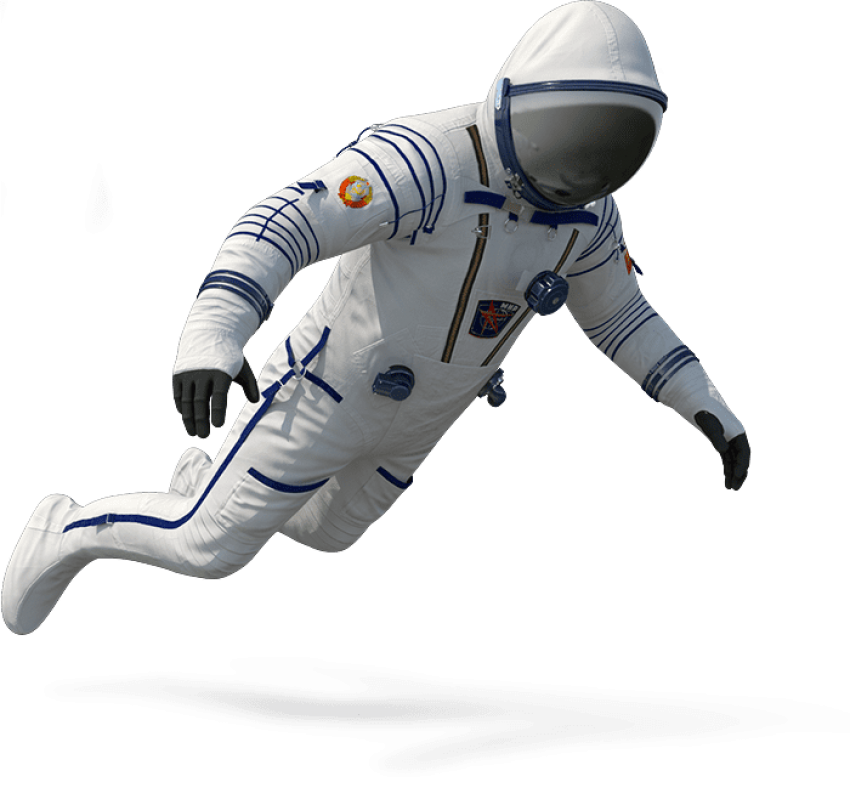
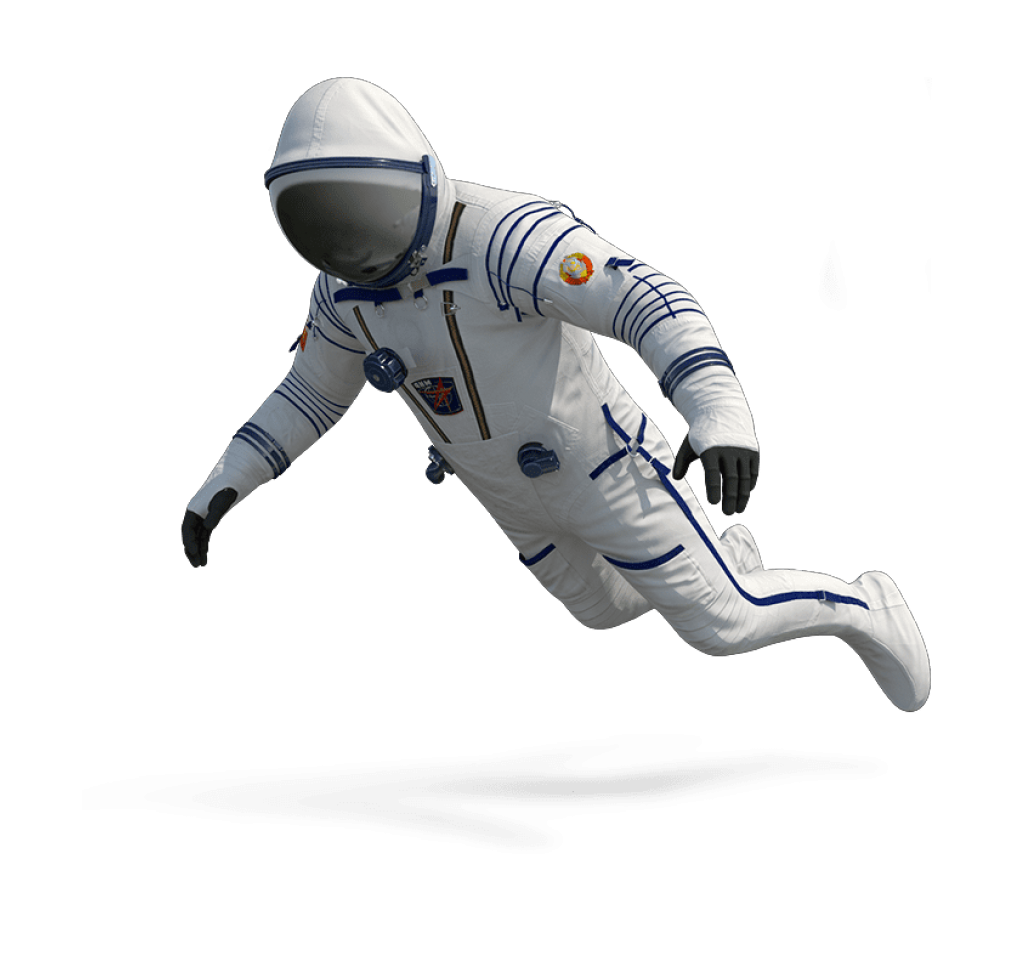
added link to cv

diff --git a/index.html b/index.html
@@ -85,213 +85,6 @@
             <li class="cockpit" data-depth="0.05"><div class="layer"></div></li>
           </ul>
       </div>
-
-
-
-<!-- ------------------------- -->
-
-<!-- <div class="third-card">
-<div class="solar-system">
-    <div class="ellipse-centered1">
-      <div id="ellipse1" class="ellipse">
-        <div id="orbit1">
-          <div id="planet1" class="planet" data-toggle="tooltip" data-placement="top" title="Tooltip on top">
-          </div>
-        </div>
-      </div>
-    </div>
-
-    <div class="ellipse-centered2">
-      <div id="ellipse2" class="ellipse">
-        <div id="orbit2">
-          <div id="planet2" class="planet">
-          </div>
-        </div>
-      </div>
-    </div>
-    <div class="ellipse-centered3">
-      <div id="ellipse3" class="ellipse">
-        <div id="orbit3">
-          <div id="planet3" class="planet">
-          </div>
-        </div>
-      </div>
-    </div>
-    <div class="ellipse-centered4">
-      <div id="ellipse4" class="ellipse">
-        <div id="orbit4">
-          <div id="planet4" class="planet">
-          </div>
-        </div>
-      </div>
-    </div>
-    <div class="ellipse-centered5">
-      <div id="ellipse5" class="ellipse">
-        <div id="orbit5">
-          <div id="planet5" class="planet">
-          </div>
-        </div>
-      </div>
-    </div>
-    <div class="ellipse-centered6">
-      <div id="ellipse6" class="ellipse">
-        <div id="orbit6">
-          <div id="planet6" class="planet">
-          </div>
-        </div>
-      </div>
-    </div>
-  </div>
-  </div> -->
-
-
-<!-- ---------------------------- -->
-
-
-    <!--   <div class="third-card">
-      <div class="animation-container">
-        <div class="planet-container">
-          <div class="planet">
-
-          </div>
-        </div>
-      </div>
-        <div class="planet-controller">
-        <i class="fa fa-arrow-left" aria-hidden="true" onClick="rotateLeft()"></i>
-        <i class="fa fa-arrow-right" aria-hidden="true" onClick="rotateRight()"></i>
-        </div>
-      </div> -->
-
-
-
-
-
-
-
-        <div id="cv-toggle" class="experiences">
-          <div class="cv">
-          <div class="experiences-list">
-            <h3>Experiences</h3>
-            <br>
-            <div class="exp-card">
-              <h4><span>Développeur web</span><span class="more_infos"><strong>+</strong></span></h4>
-              Indépendant <br>
-              <span>oct. 2018 – Aujourd’hui (4 mois) <br>
-              Paris, France</span> <br><br>
-              <div class="toggle-1">
-                🚧 En cours 🚧<br>
-                🚀Refonte du site De La Terre À l'Objet<br>
-                🎉 Livraison prévue pour fin Janvier 2019<br><br>
-
-                Techno utilisées :<br>
-                - Ruby on rails<br>
-                - postgreSQL<br>
-                - API (stripe, weezevent)<br>
-                - gem Ruby<br>
-                - Html/CSS<br>
-                - Javascript<br><br>
-
-                PROJET RÉALISÉ :<br>
-                <a href="https://pedalo.olvo.fr">❤ pedalo.olvo.fr</a> (projet @LeWagon)<br><br>
-              </div>
-            </div>
-            <div class="exp-card">
-              <h4><span>Pilote banc moteur (Groupe PSA)</span><span class="more_infos"><strong>+</strong></span></h4>
-              FEV France <br>
-               <span>Janv. 2018 – Juin 2018 (6 mois) <br>
-              Carrière sous poissy, France</span> <br><br>
-
-              <div class="toggle-2">
-                - Réalisation de gammes d'essai <br>
-                - Mise au point moteur <br>
-                - Calibration <br>
-                - Dépouillement de premier niveau <br>
-                - Maintenance des moyens d'essai <br><br>
-
-                Outils : PUMA, INCA , OSIRIS<br><br>
-              </div>
-            </div>
-
-            <div class="exp-card">
-              <h4><span>Gestionnaire de configuration</span><span class="more_infos"><strong>+</strong></span></h4>
-              SAFRAN Electronics & Defense <br>
-               <span>avril 2015 – Nov. 2016 (1 an et 8 mois) <br>
-              Paris, France</span> <br><br>
-
-              <div class="toggle-3">
-                - Suivi de la description fonctionnelle et physique des produits. <br>
-                - Edition et maintien de la Configuration Applicable des produits. <br>
-                - Suivi et enregistrement des Fiches de Faits Techniques et des demandes d'Evolution. <br>
-                - Interface avec les équipes de développement et de fabrication (Commission de gestion de configuration périodique). <br><br>
-              </div>
-            </div>
-
-            <div class="exp-card">
-              <h4><span>Stagiaire-ingenieur calcul A350-1000 XWB (CWB)</span><span class="more_infos"><strong>+</strong></span></h4>
-              AIRBUS OPERATION SAS <br>
-               <span>Juil. 2014 – Déc. 2014 (6 mois) <br>
-              Paris, France</span> <br><br>
-
-              <div class="toggle-4">
-                - Création du modèle DFEM de l’éprouvette Isogrid représentative de la nervure 1 à partir d’une CAO. <br>
-                - Définition du chargement de l’éprouvette en accord avec la capacité de l’outillage existant (ratio compression/cisaillement, conditions aux limites) <br>
-                - Analyse du comportement linéaire et non linéaire du modèle DFEM (Nastran/Patran/Abaqus) <br>
-                - Post-traitement des résultats, validation du chargement initial par rupture en flambage de l’éprouvette <br>
-                - Identification de l'instrumentation de mesure en prévision de corrélations avec les résultats d’essais (choix du placement des jauges sur l’éprouvette) <br>
-                - Rédaction de la Test Request, cahier des charges de l’essai statique de compression/cisaillement, avec l'ensemble des conclusions de l’étude DFEM. <br><br>
-              </div>
-            </div>
-
-            <div class="exp-card">
-              <h4><span>Stagiaire-ingénieur essai</span><span class="more_infos"><strong>+</strong></span></h4>
-              Itron <br>
-               <span>Juin 2013 – sept. 2013 (4 mois) <br>
-              Paris, France</span> <br><br>
-
-              <div class="toggle-5">
-                Mise en place d'un prototype de compteurs pour mesures de courant continu : <br>
-                  - Adaptation d’un banc de test à partir des technologies existantes <br>
-                  - Conception d’un banc de test <br>
-                  - Analyse de résultats et Validation du prototype <br><br>
-              </div>
-            </div>
-
-            <div class="exp-card">
-              <h4><span>Technicien essai</span><span class="more_infos"><strong>+</strong></span></h4>
-              Itron <br>
-               <span>Nov. 2010 – Aou. 2011 (10 mois) <br>
-              Paris, France</span> <br><br>
-
-              <div class="toggle-6">
-                Mise en place d’un système de mesure de précision pour la cartographie du champ magnétique dans l’entrefer d’un tore en C : <br>
-                  - Etude de faisabilité <br>
-                  - Conception de la maquette sous SolidWorks <br>
-                  - Réalisation du banc de test <br><br>
-                Caractérisation de matériaux magnétiques :  <br>
-                  - Vérification de la conformité des stocks <br>
-                  - Automatisation de manipulations sous Python <br><br>
-              </div>
-            </div>
-          </div>
-          </div>
-          <!-- <div class="tongue-cv" onClick="openCv()" style="font-size: 40px; color: white;"><i class="far fa-file"></i></div> -->
-          <!-- <div class="tongue-cv" onClick="openCv()"></div> -->
-        </div>
-        <!-- <div id="infos-toggle" class="infos">
-          <div class="contact">
-              15 rue Notre Dame de Lorette <br>
-              Paris, IDF France<br><br>
-            <div class="phone">
-
-            </div>
-            <div class="mail">
-
-            </div>
-          </div>
-          <div class="tongue" onClick="openFunction()" style="font-size: 40px; color: white">
-            <i class="far fa-address-card"></i>
-          </div>
-      </div> -->
       <div class="top">
         <div id="circleTop"></div>
         <i onClick="scrollUp()" id="arrow-fixed-top" class="fa fa-arrow-up fa-2x" aria-hidden="true"></i>
@@ -307,7 +100,7 @@
             <div class="content-phone"><span>06.68.28.98.06</span></div>
           </div>
           <div id="widget-cv" class="widget-cv">
-            <div class="content-cv"><span style="width: 100px !important">CV</span></div>
+            <div class="content-cv"><span style="width: 100px !important"> <a href="https://augustin75009.github.io/cv-html/" target="_blank" style="text-decoration: none; color: white">CV</a></span></div>
           </div>
         </div>
           <div id="widget-close" class="widget-close">
@@ -328,21 +121,6 @@
     <script src="rotate.js"></script>
     <script src="parallaxScroll.js"></script>
     <script src="shoWidget.js"></script>
-
-
-
-      <script src="https://code.jquery.com/jquery-3.3.1.slim.min.js" integrity="sha384-q8i/X+965DzO0rT7abK41JStQIAqVgRVzpbzo5smXKp4YfRvH+8abtTE1Pi6jizo" crossorigin="anonymous"></script>
-  <script src="https://cdnjs.cloudflare.com/ajax/libs/popper.js/1.14.6/umd/popper.min.js" integrity="sha384-wHAiFfRlMFy6i5SRaxvfOCifBUQy1xHdJ/yoi7FRNXMRBu5WHdZYu1hA6ZOblgut" crossorigin="anonymous"></script>
-  <script src="https://stackpath.bootstrapcdn.com/bootstrap/4.2.1/js/bootstrap.min.js" integrity="sha384-B0UglyR+jN6CkvvICOB2joaf5I4l3gm9GU6Hc1og6Ls7i6U/mkkaduKaBhlAXv9k" crossorigin="anonymous"></script>
-  <script>
-    $('[data-toggle="tooltip"]').tooltip();
-
-  </script>
-
-
-
-
-
 
   </body>
 </html>

diff --git a/cv.css b/cv.css
@@ -101,7 +101,7 @@ body {
   background : url(assets/astro.png);
   background-size: 40%;
   position: relative;
-  background-position: 2% 25%;
+  background-position: 90% 25%;
   /*background-size: cover;*/
   background-repeat: no-repeat;
   /*animation : animated 200s;
@@ -323,36 +323,7 @@ body {
   border-radius: 30%;
 }
 
-.experiences {
-  /*flex: 3;*/
-  /*height: 90vh;*/
-  display: flex;
-  flex-direction: row;
-  /*border: solid 0.5px;*/
-  border-radius: 5px;
-  /*padding-left: 48px;*/
-  /*padding-right: 48px;*/
-  /*margin: 20px 132px 132px 60px;*/
-  background: transparent;
-  z-index: 301;
-  position: fixed;
-  top: 60;
-  left: -612px;
-  /*overflow: auto;*/
-}
 
-.experiences-list {
-  padding-left: 10px;
-  overflow: auto;
-  height: 90vh;
-}
-
-.cv {
-  height: 90vh;
-  width: 612px;*/
-  overflow: auto;
-  background-color: rgba(255,255,255,0.95);
-}
 .experiences.open-cv{
   left: 0px;
 }

diff --git a/parallaxScroll.js b/parallaxScroll.js
@@ -3,6 +3,7 @@ const parallaxScroll = document.querySelector(".name")
 
 window.addEventListener("scroll", function() {
   let offset = window.pageYOffset;
+  console.log(offset)
   console.log(offset);
   parallaxScroll.style.backgroundPositionY = offset * 0.8 + "px";
   parallaxScroll.style.opacity = 1 - (offset / 400);
